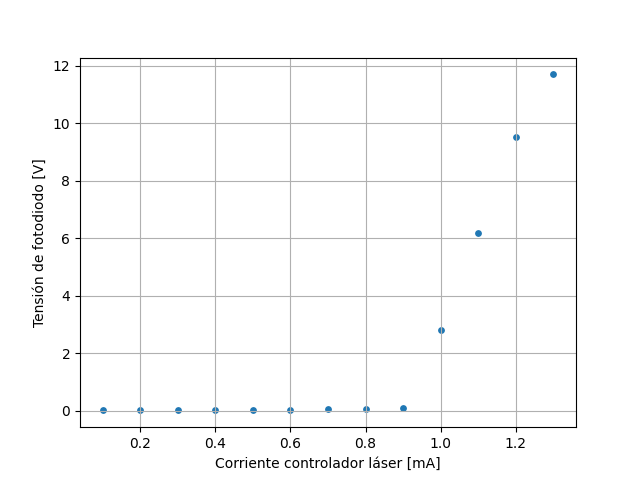
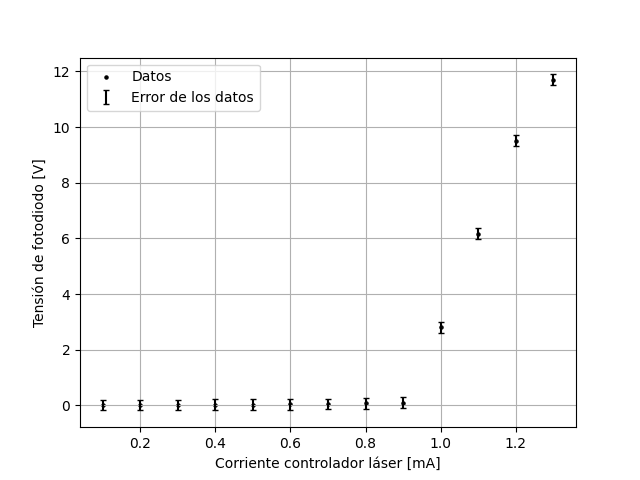
agregue errores a los graficos

diff --git a/espectroscopia/analisis_espectroscopioa.py b/espectroscopia/analisis_espectroscopioa.py
@@ -12,7 +12,7 @@ with open(file = os.path.join(input_path + os.path.normpath('/medicion_sinrb.pkl
     datos_sinrb = pickle.load(file = archive)
 
 fig, ax = plt.subplots(nrows = 1, ncols = 1)
-ax.scatter(datos_sinrb['corriente_setting'], datos_sinrb['tension'], s = 15)
+ax.scatter(datos_sinrb['corriente_setting'], datos_sinrb['tension'], s = 5, color = 'black', label = 'Datos')
 ax.errorbar(
 datos_sinrb['corriente_setting'], 
 datos_sinrb['tension'],
@@ -25,41 +25,73 @@ label = 'Error de los datos')
 ax.set_xlabel('Corriente controlador láser [mA]')
 ax.set_ylabel('Tensión de fotodiodo [V]')
 ax.grid(visible = True)
-fig.show()
-# fig.savefig(fname = os.path.join(output_path + os.path.normpath('/medicion_sinrb.png')))
+ax.legend()
+# fig.show()
+fig.savefig(fname = os.path.join(output_path + os.path.normpath('/medicion_sinrb.png')))
 
 # Grafico tension del fotodiodo (V) vs corriente del controlador (mA). Con paso por rubidio
 with open(file = os.path.join(input_path + os.path.normpath('/medicion_conrb.pkl')), mode = "rb") as archive:
     datos_conrb = pickle.load(file = archive)
 
 fig, ax = plt.subplots(nrows = 1, ncols = 1)
-ax.scatter(datos_conrb['corriente_setting'], datos_conrb['tension'], s = 15)
+ax.scatter(datos_conrb['corriente_setting'], datos_conrb['tension'], s = 5, color = 'black', label = 'Datos')
+ax.errorbar(
+datos_conrb['corriente_setting'], 
+datos_conrb['tension'],
+yerr = 2*(5*5/256), #(escala*divisiones/resolución)*2 (*2 pq asignamos el 200 porciento debido a ruido)
+marker = '.', 
+fmt = 'None', 
+capsize = 2, 
+color = 'black', 
+label = 'Error de los datos')
 ax.set_xlabel('Corriente controlador láser [mA]')
 ax.set_ylabel('Tensión de fotodiodo [V]')
 ax.grid(visible = True)
-fig.show()
-# fig.savefig(fname =os.path.join(output_path + os.path.normpath('/medicion_conrb.png')))
+ax.legend()
+# fig.show()
+fig.savefig(fname =os.path.join(output_path + os.path.normpath('/medicion_conrb.png')))
 
 # Grafico tension del fotodiodo (V) vs temperatura del controlador (ºC). Con paso por rubidio
 with open(file = os.path.join(input_path + os.path.normpath('/medicion_1200uA.pkl')), mode = "rb") as archive:
     datos_1200uA = pickle.load(file = archive)
 
 fig, ax = plt.subplots(nrows = 1, ncols = 1)
-ax.scatter(datos_1200uA['temperatura'], datos_1200uA['tension'], s = 15)
+ax.scatter(datos_1200uA['temperatura'], datos_1200uA['tension'], s = 5, color = 'black', label = 'Datos')
+ax.errorbar(
+datos_1200uA['temperatura'], 
+datos_1200uA['tension'],
+yerr = 2*(5*5/256), #(escala*divisiones/resolución)*2 (*2 pq asignamos el 200 porciento debido a ruido)
+marker = '.', 
+fmt = 'None', 
+capsize = 2, 
+color = 'black', 
+label = 'Error de los datos')
 ax.set_xlabel(r'Corriente controlador láser [$^{o}C$]')
 ax.set_ylabel('Tensión de fotodiodo [V]')
 ax.grid(visible = True)
-fig.show()
-# fig.savefig(fname =os.path.join(output_path + os.path.normpath('/medicion_1200uA.png')))
+ax.legend()
+# fig.show()
+fig.savefig(fname =os.path.join(output_path + os.path.normpath('/medicion_1200uA.png')))
 
 # Captura del canal 1 del osciloscopio a 24.126 ºC y modulado de rampa de 1Hz. Con paso por rubidio
 with open(file = os.path.join(input_path + os.path.normpath('/absorcion_24_126C.pkl')), mode = "rb") as archive:
     datos_24_126C = pickle.load(file = archive)
 
 fig, ax = plt.subplots(nrows = 1, ncols = 1)
-ax.scatter(datos_24_126C['tiempo'], datos_24_126C['tension'], s = 2)
+ax.scatter(datos_24_126C['tiempo'][1230:1930], datos_24_126C['tension'][1230:1930], s = 5, color = 'black', label = 'Datos')
+# ax.errorbar(
+# datos_24_126C['tiempo'][1230:1930], 
+# datos_24_126C['tension'][1230:1930],
+# yerr = 2*(5*5/256), #(escala*divisiones/resolución)*2 (*2 pq asignamos el 200 porciento debido a ruido)
+# marker = '.', 
+# fmt = 'None', 
+# capsize = .2, 
+# color = 'black', 
+# label = 'Error de los datos')
 ax.set_xlabel('Tiempo [s]')
 ax.set_ylabel('Tensión de fotodiodo [V]')
 ax.grid(visible = True)
-fig.show()
-# fig.savefig(fname =os.path.join(output_path + os.path.normpath('/absorcion_24_126C.png')))
+ax.legend()
+# fig.show()
+fig.savefig(fname =os.path.join(output_path + os.path.normpath('/absorcion_24_126C.png')))
+
